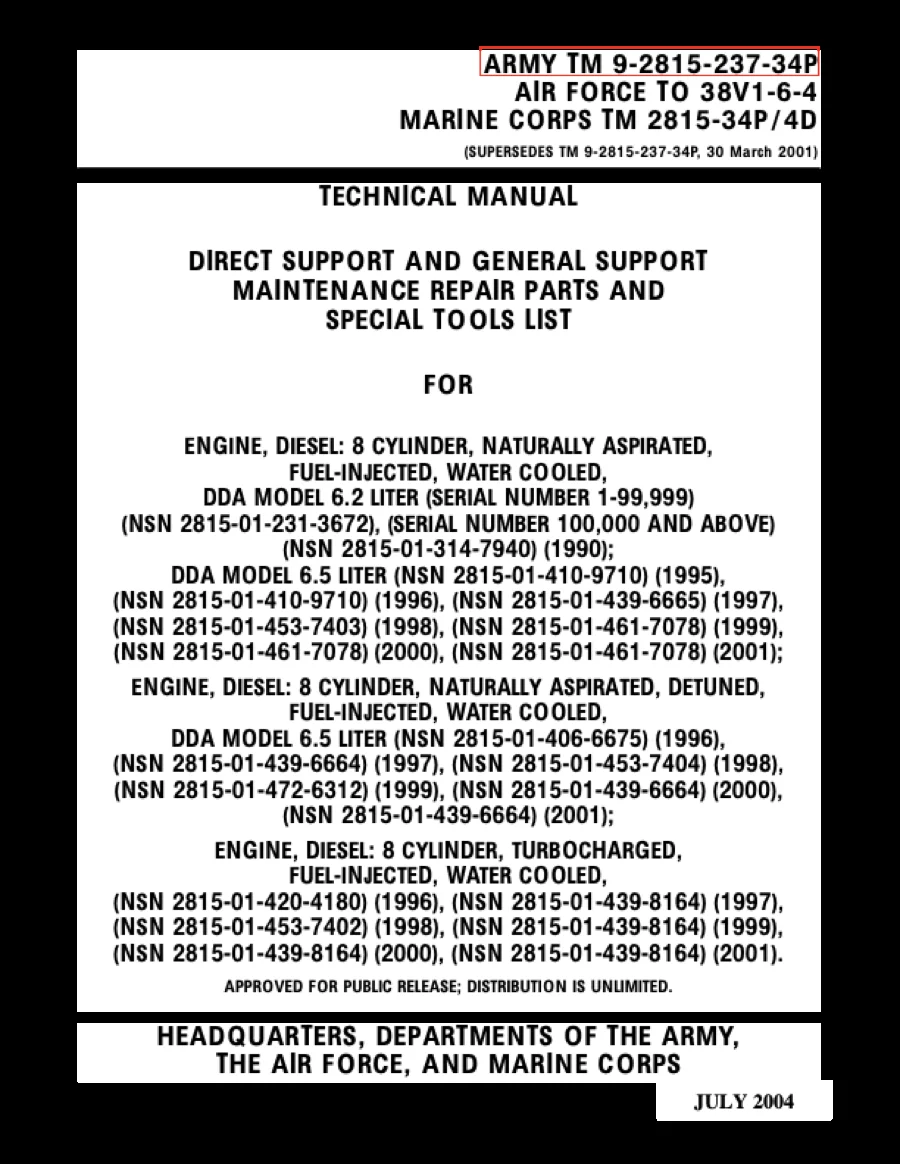
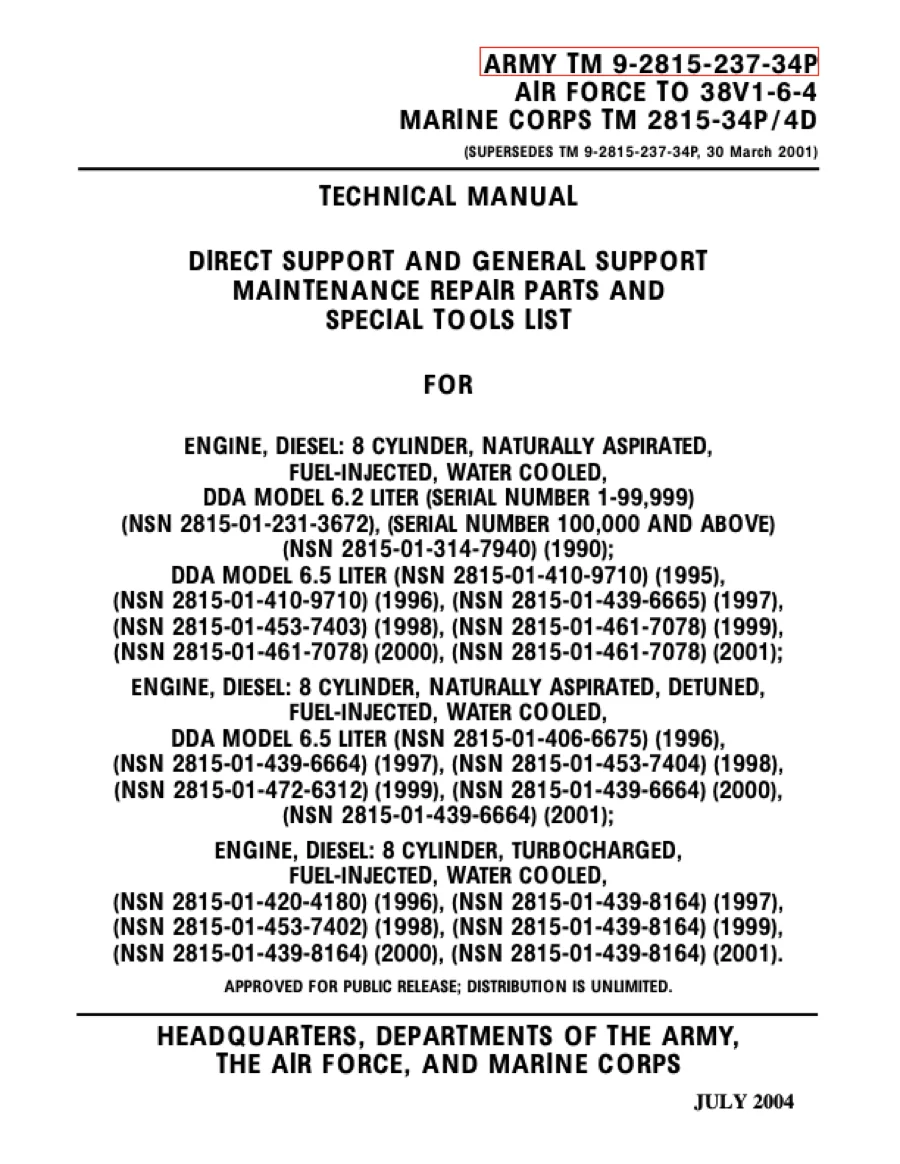
Manual cards: white cover, distinct headlines, plate count
- import_manual.py: composite a transparent cover page onto white
  (TM 9-2815-237-34P's cover rendered with a black frame); cover
  regenerated
- card headlines name the kind of book (maintenance manual, repair
  parts list); the parts card counts its interactive plates; the home
  page no longer shows "0 interactive procedures"

Changed region(s): [[0.0, 0.0, 1.0, 1.0]]

diff --git a/app/manuals/page.tsx b/app/manuals/page.tsx
@@ -1,4 +1,5 @@
 import Link from "next/link";
+import { plateFor } from "@/lib/plates";
 import { manuals, manualPath, pdfUrl, pdfName, fileSize } from "@/lib/manuals";
 import { proceduresFor } from "@/lib/procedures";
 import { pageMeta, JsonLd, breadcrumbLd, abs } from "@/lib/seo";
@@ -28,6 +29,7 @@ export default function Manuals() {
           {manuals.map((m) => {
             const procs = proceduresFor(m.id);
             const parts = m.data.layout === "parts";
+            const plates = Object.keys(m.data.figures).filter((id) => plateFor(id)).length;
             const units = m.data.sections.filter((s) => s.kind === (parts ? "wp" : "para")).length;
             return (
               <article key={m.id} className="card tm-card">
@@ -36,11 +38,12 @@ export default function Manuals() {
                   <img src={`/${m.data.cover.image}`} alt={`Cover of ${m.number}`} width={m.data.cover.width} height={m.data.cover.height} />
                 </Link>
                 <span className="mono">{m.number} · {m.date}</span>
-                <Link href={manualPath(m)} className="tm-card-title"><strong>{m.subject}</strong></Link>
+                <Link href={manualPath(m)} className="tm-card-title"><strong>{m.subject} {m.noun}</strong></Link>
                 <span>{m.title}</span>
                 <span className="mono">
                   {units} {parts ? "work packages" : "paragraphs"} · {Object.keys(m.data.figures).length} figures · {m.data.pdf.pages} pages
                   {procs.length > 0 && ` · ${procs.length} interactive procedure${procs.length === 1 ? "" : "s"}`}
+                  {plates > 0 && ` · ${plates} interactive plates`}
                 </span>
                 <a className="mono" href={pdfUrl(m)} download={pdfName(m)}>Download PDF ({fileSize(m.data.pdf.bytes)})</a>
               </article>

diff --git a/app/page.tsx b/app/page.tsx
@@ -22,9 +22,9 @@ export default function Home() {
       <section className="sec"><div className="kicker">Technical manuals</div>
         <div className="grid">{manuals.map((m) => (
           <Link key={m.id} className="card" href={manualPath(m)}>
-            <strong>{m.number}: {m.subject}</strong>
+            <strong>{m.number}: {m.subject} {m.noun}</strong>
             <span>{m.title}, {m.date}</span>
-            <span className="mono">{m.data.sections.length} sections · {Object.keys(m.data.figures).length} figures · {proceduresFor(m.id).length} interactive procedures · PDF</span>
+            <span className="mono">{m.data.sections.length} sections · {Object.keys(m.data.figures).length} figures{proceduresFor(m.id).length > 0 && ` · ${proceduresFor(m.id).length} interactive procedures`} · PDF</span>
           </Link>
         ))}</div>
       </section>

diff --git a/scripts/import_manual.py b/scripts/import_manual.py
@@ -455,14 +455,18 @@ def main() -> None:
 
 
 def render_cover(pdf: Path, pub: Path) -> dict:
-    """First page as WebP (sips renders PDFs on macOS; OpenCV writes the WebP)."""
+    """First page as WebP on white (sips renders PDFs on macOS; OpenCV writes the WebP)."""
     import cv2
 
     with tempfile.TemporaryDirectory() as tmp:
         png = Path(tmp) / "cover.png"
         subprocess.run(["sips", "-s", "format", "png", str(pdf), "--resampleWidth", "900", "--out", str(png)],
                        check=True, capture_output=True)
-        img = cv2.imread(str(png))
+        img = cv2.imread(str(png), cv2.IMREAD_UNCHANGED)
+    if img.ndim == 3 and img.shape[2] == 4:
+        # A cover drawn as boxes on a transparent page: put it on white paper, not black.
+        a = img[..., 3:].astype("float32") / 255
+        img = (img[..., :3] * a + 255 * (1 - a)).astype("uint8")
     cv2.imwrite(str(pub / "cover.webp"), img, [cv2.IMWRITE_WEBP_QUALITY, 85])
     h, w = img.shape[:2]
     return {"image": f"manuals/{pub.name}/cover.webp", "width": w, "height": h}
